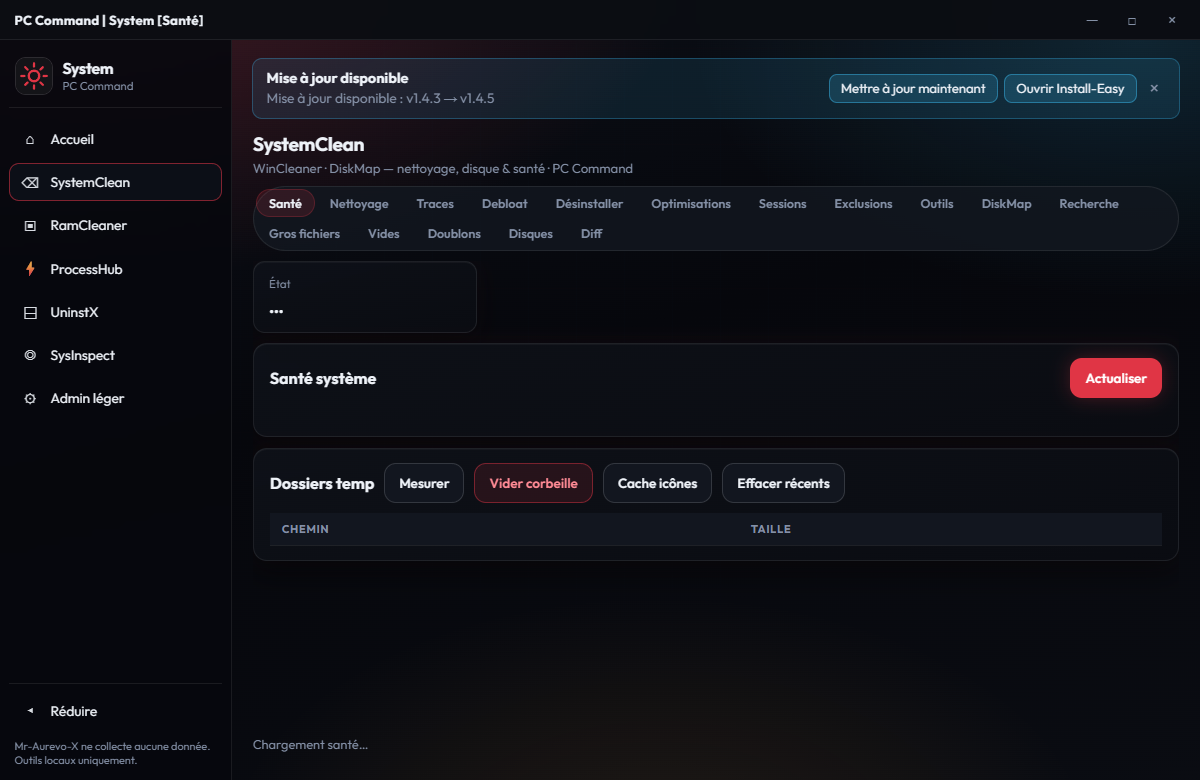
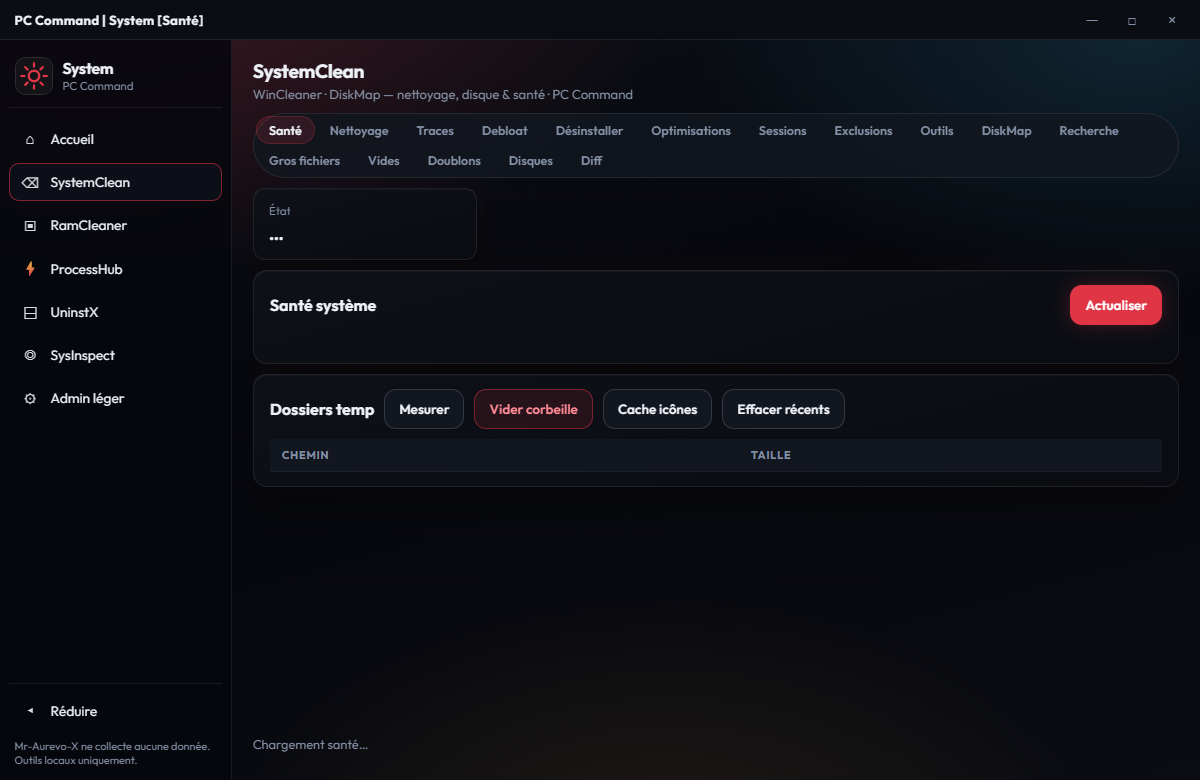
release: v1.4.7 hub boot hardening, update check fix, screenshots
- Boot try/catch + SHOW_VIEW per hub
- hub_update: semver compare, skip dev-tree update banner
- Recaptured validated dashboard/module PNGs

diff --git a/ui/app.js b/ui/app.js
@@ -207,6 +207,7 @@ async function loadVersionAndUpdates() {
   try {
     if (typeof a.check_for_update === "function") {
       const u = await a.check_for_update();
+      if (u?.fromSourceTree) return;
       if (u?.needsAuth) {
         showUpdateBanner(
           {
@@ -282,13 +283,46 @@ function wireSidebar() {
   });
 }
 
+async function waitPywebviewReady(timeoutMs = 8000) {
+  if (window.pywebview && window.pywebview.api) return;
+  await new Promise((resolve) => {
+    const timer = setTimeout(resolve, timeoutMs);
+    window.addEventListener(
+      "pywebviewready",
+      () => {
+        clearTimeout(timer);
+        resolve();
+      },
+      { once: true }
+    );
+  });
+}
+
+function showBootError(err) {
+  const root = document.getElementById("hubView");
+  if (!root) return;
+  const msg = String((err && err.message) || err || "Erreur inconnue")
+    .replace(/&/g, "&amp;")
+    .replace(/</g, "&lt;");
+  root.innerHTML =
+    '<div class="hub-boot-error" role="alert" style="padding:1.5rem;color:#f5f5f5">' +
+    "<strong>Erreur au démarrage</strong>" +
+    `<p style="margin-top:0.5rem;opacity:0.85">${msg}</p></div>`;
+}
+
 async function boot() {
-  wireSidebar();
-  await waitApi();
-  await showView("dashboard");
-  const bootView = (location.hash || "").replace(/^#/, "").trim();
-  if (bootView && bootView !== "dashboard") await showView(bootView);
-  void loadVersionAndUpdates();
+  try {
+    wireSidebar();
+    await waitPywebviewReady();
+    await waitApi();
+    await showView("dashboard");
+    const bootView = (location.hash || "").replace(/^#/, "").trim();
+    if (bootView && bootView !== "dashboard") await showView(bootView);
+    void loadVersionAndUpdates();
+  } catch (err) {
+    console.error("[Hub boot]", err);
+    showBootError(err);
+  }
 }
 
 if (document.readyState === "loading") {

diff --git a/backend/hub_update.py b/backend/hub_update.py
@@ -202,12 +202,24 @@ def expected_asset_sha256(catalog: dict | None, name: str) -> tuple[str | None, 
     return (raw or None), True
 
 
+def running_from_dev_central_tree(path: Path) -> bool:
+    lowered = str(Path(path).resolve()).lower().replace("/", "\\")
+    return "\\dev central tree\\" in lowered
+
+
 def running_from_source_tree(path: Path) -> bool:
     lowered = str(Path(path).resolve()).lower().replace("/", "\\")
-    needle = f"\\{lowered}\\"
-    if "\\dev central tree\\" not in needle:
+    if not running_from_dev_central_tree(path):
         return False
-    return "\\01_hubs\\" in needle or "\\atelierwindows\\" in needle
+    if "\\01_hubs\\" in lowered or "\\atelierwindows\\" in lowered:
+        return True
+    # Launch-Hub-*.exe rebuilt at Dev Central Tree root (dev / smoke / capture)
+    if getattr(sys, "frozen", False):
+        exe = Path(sys.executable).resolve()
+        name = exe.name.lower()
+        if name.startswith("launch-hub-") and name.endswith(".exe"):
+            return exe.parent.resolve() == Path(path).resolve()
+    return False
 
 
 def _assert_allowed_url(url: str) -> None:
@@ -257,6 +269,31 @@ def normalize_version(raw: str | None) -> str:
     if s and s[0].isdigit():
         return f"v{s}"
     return s
+
+
+def _version_tuple(raw: str | None) -> tuple[int, ...]:
+    s = normalize_version(raw)
+    if s.lower().startswith("v"):
+        s = s[1:]
+    parts: list[int] = []
+    for piece in s.replace("-", ".").split("."):
+        if not piece:
+            continue
+        digits = ""
+        for ch in piece:
+            if ch.isdigit():
+                digits += ch
+            else:
+                break
+        if not digits:
+            break
+        parts.append(int(digits))
+    return tuple(parts) if parts else (0,)
+
+
+def is_remote_newer(remote: str | None, local: str | None) -> bool:
+    """True only when remote semver is strictly greater than local."""
+    return _version_tuple(remote) > _version_tuple(local)
 
 
 def format_version_bracket(version: str | None) -> str:
@@ -401,7 +438,9 @@ def check_hub_update(
     auto_update = read_auto_update_setting(*roots, default_install_dir())
     from_sot = running_from_source_tree(app_dir)
     if getattr(sys, "frozen", False):
-        from_sot = from_sot or running_from_source_tree(Path(sys.executable).parent)
+        exe_parent = Path(sys.executable).resolve().parent
+        from_sot = from_sot or running_from_source_tree(exe_parent)
+        from_sot = from_sot or running_from_dev_central_tree(exe_parent)
 
     try:
         release = json.loads(_api_request(api_latest_url(repo), tok).decode("utf-8"))
@@ -445,7 +484,7 @@ def check_hub_update(
 
     assets = {str(a.get("name") or ""): a for a in (release.get("assets") or [])}
     has_asset = asset_name in assets
-    update_available = bool(remote) and (local or "") != remote and has_asset
+    update_available = bool(remote) and is_remote_newer(remote, local) and has_asset
     can_self = bool(update_available and has_asset and not from_sot)
 
     return {
@@ -765,9 +804,12 @@ def apply_hub_update(
     for marker in ("\\dev central tree\\", "\\01_hubs\\", "\\atelierwindows\\"):
         if marker in f"\\{lowered}\\":
             return {
-                "ok": False,
-                "error": (
-                    "Mise à jour refusée : le hub tourne depuis le dépôt source. "
+                "ok": True,
+                "skipped": True,
+                "updated": False,
+                "reason": "fromSourceTree",
+                "message": (
+                    "Mise à jour ignorée : hub lancé depuis le dépôt source. "
                     f"Installe via Install-Easy sous %LOCALAPPDATA%\\{HUB_INSTALL_DIR}."
                 ),
             }
